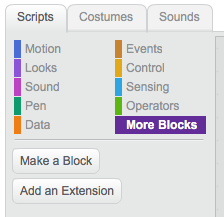
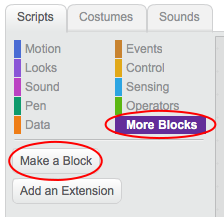
Added image highlighting and copy

Changed region(s): [[0.4688, 0.4977, 0.9688, 0.6636], [0.0312, 0.6359, 0.4688, 0.8018], [0.0938, 0.7742, 0.4375, 0.8571]]

diff --git a/en/step_1.md b/en/step_1.md
@@ -1,37 +1,39 @@
 ## Making a block
 
-+
++ Click on 'More Blocks' in the Scripts tab, then click on 'Make a Block'.
 
-![](images/more-blocks.png)
+![More Blocks](images/more-blocks.png)
 
-+
++ Give your new block a name and then click 'OK'.
 
-![](images/block-create.png)
+![Create a new block](images/block-create.png)
 
-+
++ You will then see a new 'define' block. Attach code to this block.
 
-![](images/block-define.png)
+![Define a new block](images/block-define.png)
 
-+
++ You can then use your new block just like any normal block.
 
-![](images/block-use.png)
+![Use a new block](images/block-use.png)
 
-+
++ The code attached to the 'define' block is run whenever your new block is used.
 
-![](images/block-test.png)
+![Test a new block](images/block-test.png)
 
-+
+#### Making a block with parameters
 
-![](images/parameter-create.png)
++ You can also create blocks that have 'gaps' to add data. These 'gaps' are called 'parameters'. To add parameters, first click the type of data you want to add and then give your data a name.
 
-+
+![Create a new block with parameters](images/parameter-create.png)
 
-![](images/parameter-define.png)
++ You can then define your new block as before, except that now you can also use the data provided by dragging the circular blocks to use them in your code.
 
-+
+![Define a new block with parameters](images/parameter-define.png)
 
-![](images/parameter-use.png)
++ You can then use your new block, adding data as parameters into the gaps.
 
-+
+![Use a new block with parameters](images/parameter-use.png)
 
-![](images/parameter-test.png)
++ As before, the code attached to the 'define' block is run whenever your new block is used.
+
+![Test a new block with parameters](images/parameter-test.png)
